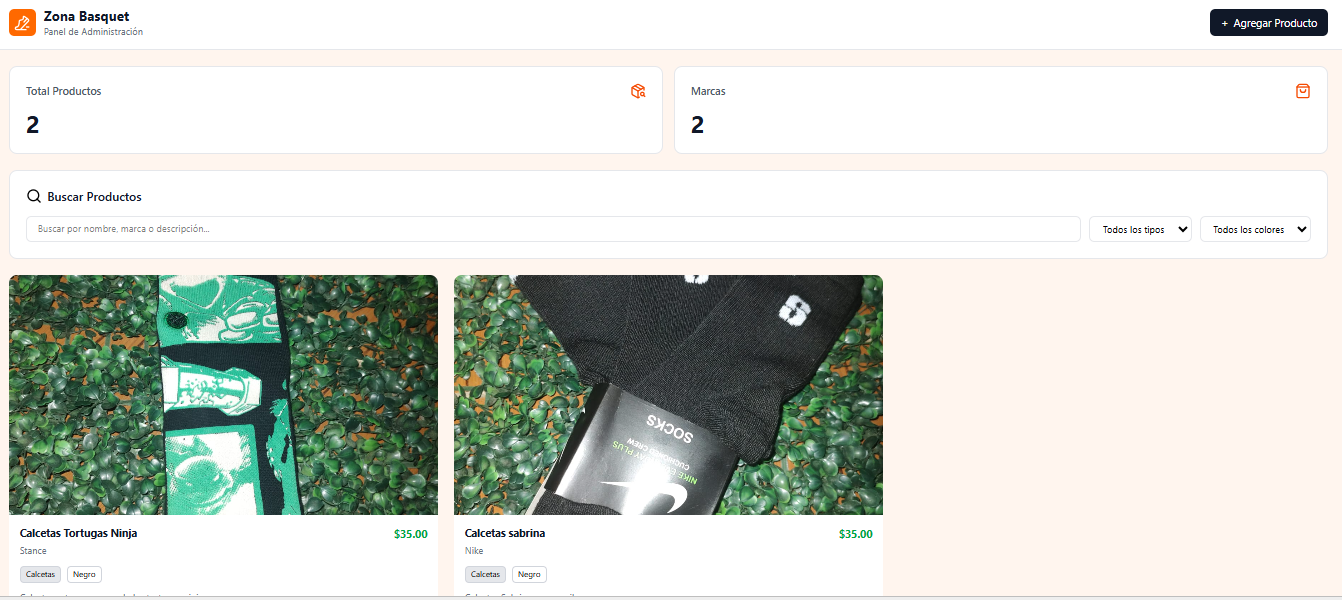
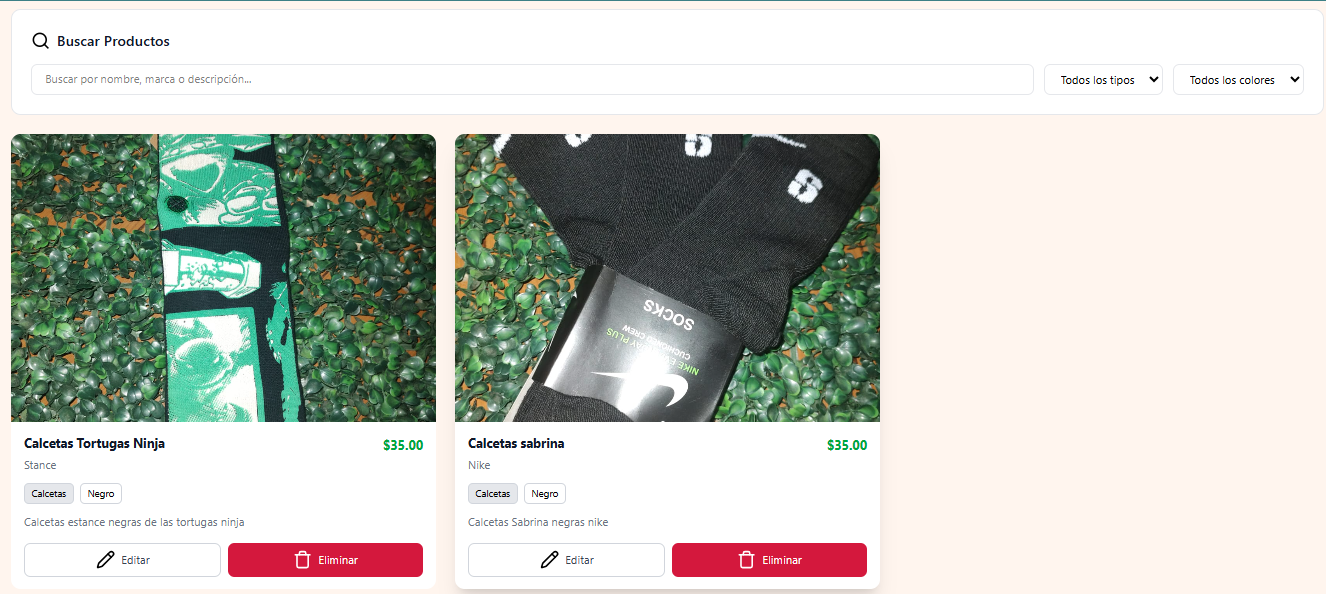
cambio de imagenes de proyectos

diff --git a/src/components/Projects.jsx b/src/components/Projects.jsx
@@ -23,7 +23,7 @@ function Projects() {
       demo: "https://zonabasquet-app.vercel.app/dashboard"
     },
       {
-      image: "/img/proyect2.png",
+      image: "/img/proyect3.png",
       title: "Zona Basquet- Catalogo",
       description: "Catálogo para una tienda de artículos deportivos con búsqueda por filtros",
       tech: ["MongoDB","Express","TypeScript","React", "Tailwind","Cloudinary",],
